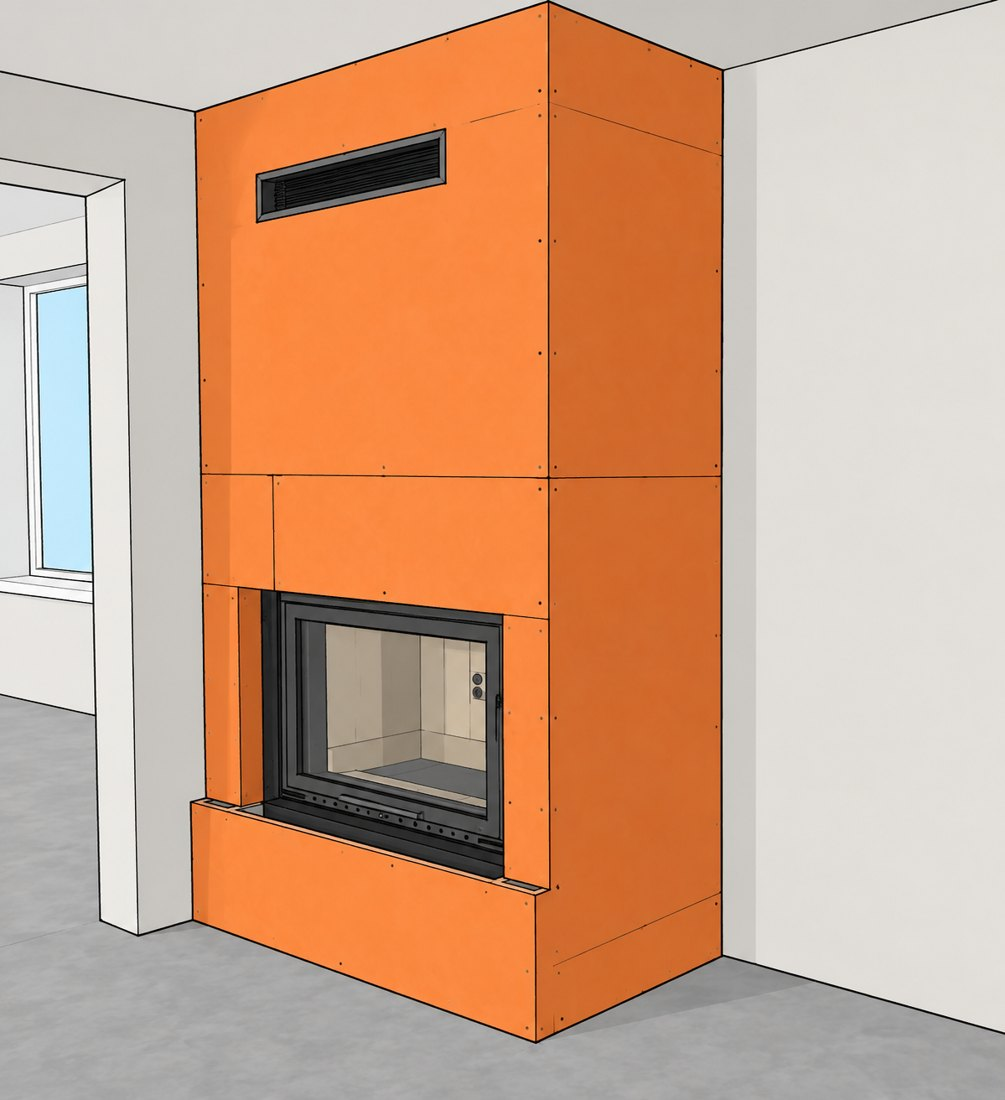
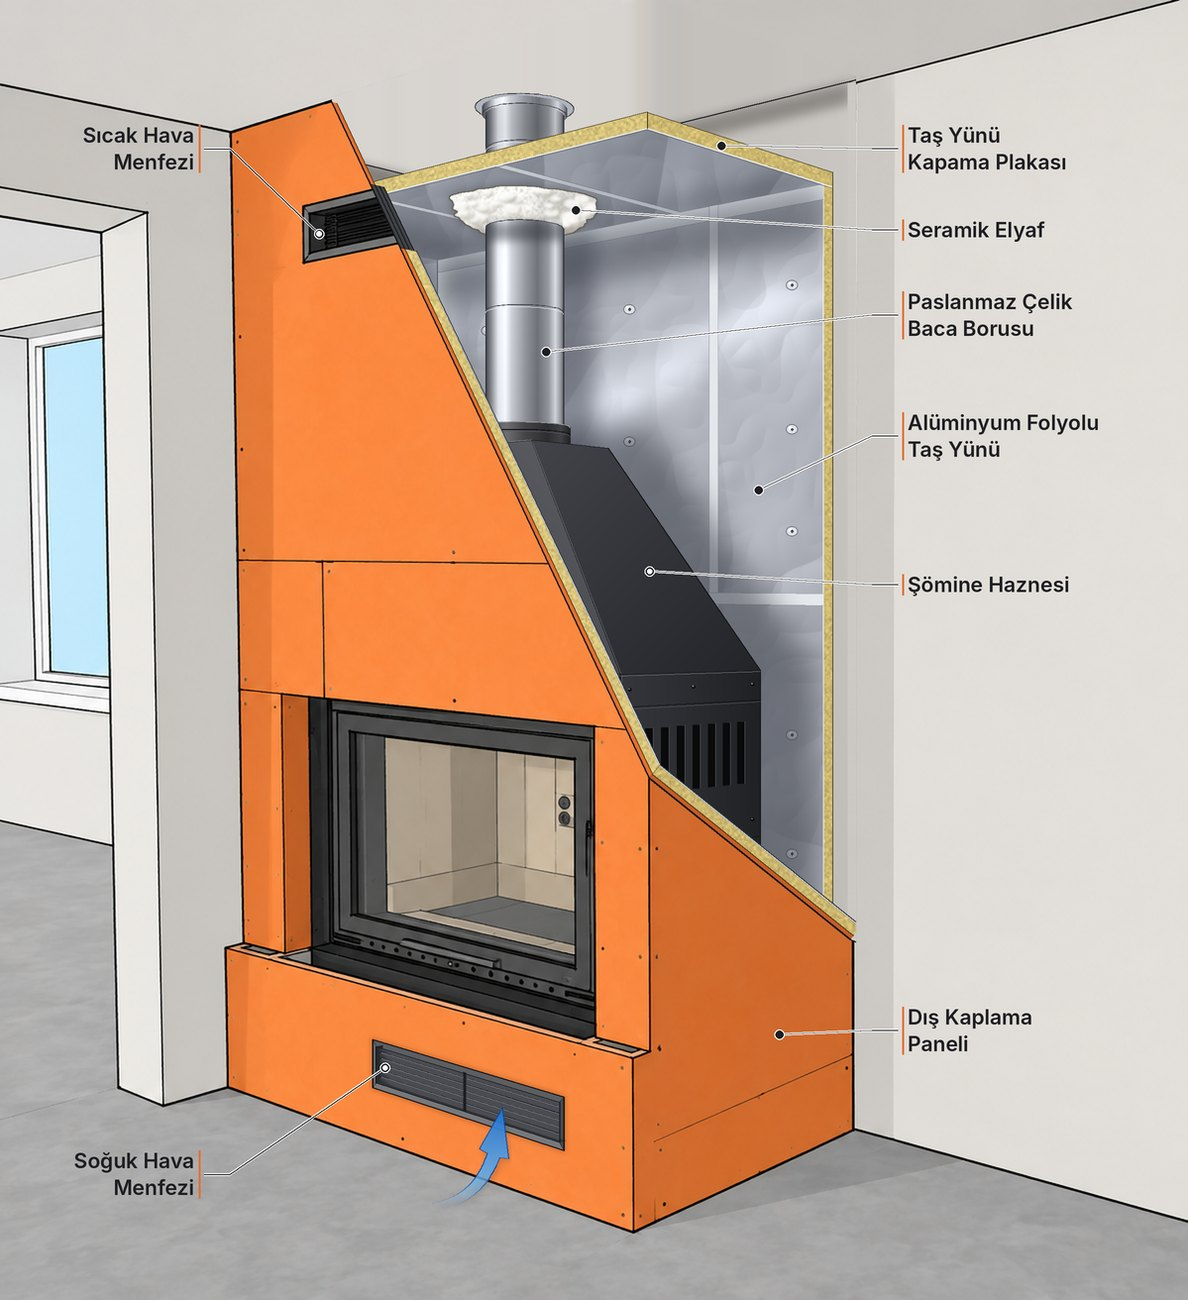
Isı odası uygulama görselleri yenilendi (kesit çizimleri)
Claude-Session: https://claude.ai/code/session_01NcdGmJFayBDf6dsWMd2XfQ

diff --git a/index.html b/index.html
@@ -1154,7 +1154,7 @@ function addItem(code,vi){
 const MONCAT='Baca ve Montaj Ekipmanları';
 /* Montaj malzemesi: eski 'Baca ve Montaj Ekipmanları' kategorisi ya da mon:true (artık 'Baca ve Isı Odası Uygulamaları' altında) */
 const isMon=p=>!!p&&(p.cat===MONCAT||p.mon===true);
-const PKGIMGS=[{src:'img/montaj/duz-camli.jpg',label:'Düz camlı hazne – A1 yanmaz levha ısı odası'},{src:'img/montaj/kose-camli.jpg',label:'Köşe camlı hazne – A1 yanmaz levha ısı odası'},{src:'img/montaj/kose-camli-bitmis.jpg',label:'Köşe camlı hazne – bitmiş ısı odası, alt ve üst menfezli'}];
+const PKGIMGS=[{src:'img/montaj/duz-camli.jpg',label:'Düz camlı hazne – ısı odası kesiti'},{src:'img/montaj/kose-camli.jpg',label:'Köşe camlı hazne – ısı odası kesiti'},{src:'img/montaj/kose-camli-bitmis.jpg',label:'Köşe camlı hazne – bitmiş ısı odası, alt ve üst menfezli'}];
 const VR=()=>1+VATR()/100, incl=i=>(i?.vat||'excl')==='incl', NOVAT=()=>Q.opts.addVat===false&&!ALL().some(incl);
 const showP=(n,i)=>incl(i)?n*VR():n, fromP=(v,i)=>incl(i)?v/VR():v, modeLbl=i=>incl(i)?'KDV dahil':'KDV hariç';
 function totRows(x,c){const d=x.disc>0.004?`<div class="r"><span>Liste toplamı (KDV hariç)</span><span>${fmt(x.gross,c)}</span></div><div class="r"><span>İskonto</span><span>−${fmt(x.disc,c)}</span></div>`:'';
@@ -1463,7 +1463,7 @@ function custHTML(){const c=Q.customer;return `<div class="d-meta">
 function pkgPageHTML(no){const k=Q.pkg,ims=(k.imgs||[]).slice(0,4);const lab=u=>(PKGIMGS.find(g=>g.src===u)||{}).label||'';
   const h=ims.length===1?620:ims.length===2?400:300,cols=ims.length===1?1:2;
   return `${miniHead(no,'Montaj uygulaması')}
-  <div><div class="p-sub">${esc((k.svc||[]).join(' · ')||'Montaj')}</div><div class="p-name">${esc(k.title||svcTitle())}</div>
+  <div><div class="p-sub">${esc((k.svc||[]).join(' · ')||'Isı odası')}</div><div class="p-name">${esc(k.title||svcTitle())}</div>
    ${k.desc?`<div class="p-desc">${esc(k.desc)}</div>`:''}<div class="p-desc" style="color:#5d5452">Aşağıdaki görseller, şöminenizin ısı odası ve kaplama uygulamasının nasıl yapılacağını göstermektedir.</div></div>
   <div style="display:grid;grid-template-columns:repeat(${cols},1fr);gap:14px">${ims.map(u=>`<figure style="margin:0;display:flex;flex-direction:column;gap:6px"><div class="p-img" style="height:${h}px"><img src="${esc(u)}" alt=""></div>${lab(u)?`<figcaption style="font-size:10.5px;color:#5d5452;text-align:center">${esc(lab(u))}</figcaption>`:''}</figure>`).join('')}</div>`}
 function monCard(i){const p=PIDX[i.code];const img=i.cimg||itemImg(i);
